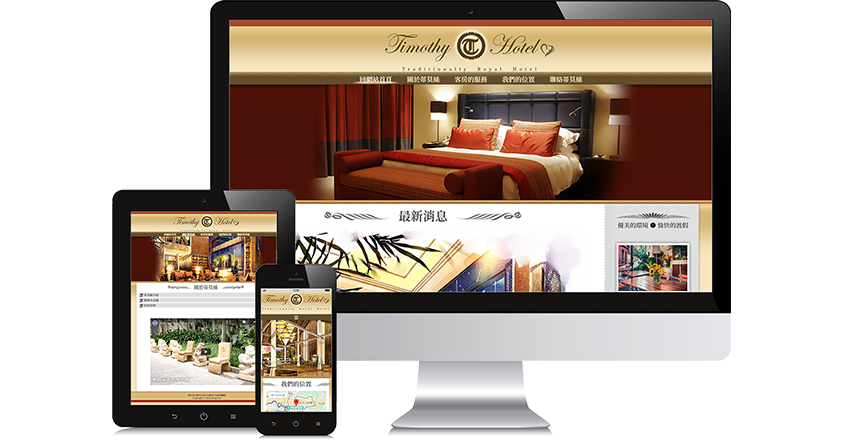
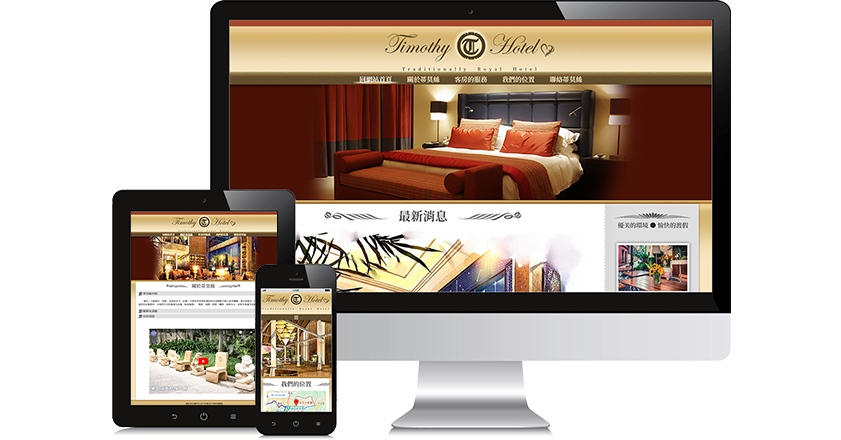
createSelfWebPicture
新增自傳網頁rwd圖示

Changed region(s): [[0.1546, 0.4727, 0.3401, 0.9455]]

diff --git a/index.html b/index.html
@@ -209,12 +209,12 @@
                                 aria-labelledby="front-tab">
                                 <!-- 網頁3 -->
                                 <div class="row my-3">
-                                    <div id="page3-content" class="col-lg-6 order-2">
+                                    <div id="page3-content" class="col-lg-7 order-2">
                                         <div class="card">
-                                            <h5 class="card-header">個人網站</h5>
+                                            <h5 class="card-header text-light">個人網站</h5>
                                             <div class="card-body">
                                                 <ul class="card-text">
-                                                    
+
                                                     <li>
                                                         Visual Studio Code 編譯
                                                     </li>
@@ -238,24 +238,23 @@
                                                     </li>
                                                 </ul>
 
-                                                <a 
-                                                    class="btn btn-light">此網站</a>
+                                                <a class="btn btn-light not-allow">此網站</a>
                                             </div>
                                         </div>
                                     </div>
-                                    <div id="page3-img" class="col-lg-6 order-1 my-2">
+                                    <div id="page3-img" class="col-lg-5 order-1 my-2">
                                         <picture>
-                                            <source class="lazyload" srcset="images/webp/timothy_rwd.webp"
-                                                type="image/webp">
-                                            <img class="lazyload" data-src="images/timothy_rwd.png" alt=""></picture>
+                                            <source srcset="images/webp/self_rwd.webp" type="image/webp">
+                                            <img class="lazyload" data-src="images/oxipng/self_rwd.png" alt="">
+                                        </picture>
                                     </div>
                                 </div>
                                 <hr />
                                 <!-- 網頁2 -->
                                 <div class="row my-3">
-                                    <div class="col-lg-6">
+                                    <div class="col-lg-7">
                                         <div class="card">
-                                            <h5 class="card-header">Timothy Hotel 蒂莫絲旅館</h5>
+                                            <h5 class="card-header text-light">Timothy Hotel 蒂莫絲旅館</h5>
                                             <div class="card-body">
                                                 <ul class="card-text">
                                                     <li>
@@ -283,19 +282,19 @@
                                             </div>
                                         </div>
                                     </div>
-                                    <div class="col-lg-6 my-2">
+                                    <div class="col-lg-5 my-2">
                                         <picture>
-                                            <source class="lazyload" srcset="images/webp/timothy_rwd.webp"
-                                                type="image/webp">
-                                            <img class="lazyload" data-src="images/timothy_rwd.png" alt=""></picture>
+                                            <source srcset="images/webp/timothy_rwd.webp" type="image/webp">
+                                            <img class="lazyload" data-src="images/oxipng/timothy_rwd.png" alt="">
+                                        </picture>
                                     </div>
                                 </div>
                                 <hr />
                                 <!-- 網頁1 -->
                                 <div class="row my-3">
-                                    <div id="page1-content" class="col-lg-6 order-2">
+                                    <div id="page1-content" class="col-lg-7 order-2">
                                         <div class="card">
-                                            <h5 class="card-header">國立東華大學弓道社 社團網頁</h5>
+                                            <h5 class="card-header text-light">國立東華大學弓道社 社團網頁</h5>
                                             <div class="card-body">
                                                 <ul class="card-text">
 
@@ -324,11 +323,11 @@
                                             </div>
                                         </div>
                                     </div>
-                                    <div id="page1-img" class="col-lg-6 order-1 my-2">
+                                    <div id="page1-img" class="col-lg-5 order-1 my-2">
                                         <picture>
-                                            <source class="lazyload" srcset="images/webp/kyudo_rwd.webp"
-                                                type="image/webp">
-                                            <img class=" lazyload" data-src="images/kyudo_rwd.png" alt=""></picture>
+                                            <source srcset="images/webp/kyudo_rwd.webp" type="image/webp">
+                                            <img class=" lazyload" data-src="images/oxipng/kyudo_rwd.png" alt="">
+                                        </picture>
                                     </div>
                                 </div>
 
@@ -336,13 +335,13 @@
 
                             <div class="tab-pane fade" id="backwork" role="tabpanel" aria-labelledby="backwork-tab">
                                 <div class="row my-3">
-                                    <div class="col-lg-6">
+                                    <div class="col-lg-7">
                                         <h5>Java 8 國際證照 OCAJP</h5>
                                         <p><a href="https://drive.google.com/open?id=1nZs2C0dUk2zXGWmJk3IDAq4ineWewz7N"
                                                 target="_blank">OCAJP崔永昀.pdf</a>
                                         </p>
                                     </div>
-                                    <div class="col-lg-6">
+                                    <div class="col-lg-5">
                                         <picture>
                                             <source srcset="images/webp/ocajp.webp" type="image/webp">
                                             <img class=" lazyload" data-src="images/ocajp.jpg"></picture>
@@ -350,7 +349,42 @@
                                 </div>
                                 <hr />
                                 <div class="row my-3">
-                                    <div class="col-lg-6">
+                                    <div id="program1-content" class="col-lg-7 order-2">
+                                        <div class="card">
+                                            <h5 class="card-header text-light">民宿管理程式</h5>
+                                            <div class="card-body">
+                                                <ul class="card-text">
+
+                                                    <li>
+                                                        NetBeans 編譯
+                                                    </li>
+                                                    <li>
+                                                        NetBeans IDE 建構 GUI
+                                                    </li>
+                                                    <li>
+                                                        封裝、多型基本設計
+                                                    </li>
+                                                    <li>
+
+                                                    </li>
+                                                    <li>
+
+                                                    </li>
+                                                    <li>
+
+                                                    </li>
+                                                    <li>
+
+                                                    </li>
+                                                </ul>
+
+                                                <a href="https://drive.google.com/drive/folders/1eDWpcEPrxxfojs0kRFS3hPII4j8Dr0zE?usp=sharing"
+                                                    class="btn btn-primary"><i
+                                                        class="fab fa-google-drive"></i>&nbsp;前往下載</a>
+                                            </div>
+                                        </div>
+                                    </div>
+                                    <div id="program1-img" class="col-lg-5 order-1">
                                         <!-- boostrap carousel -->
                                         <div id="carouselExampleCaptions" class="carousel slide" data-ride="carousel">
                                             <ol class="carousel-indicators">
@@ -541,50 +575,14 @@
                                             </a>
                                         </div>
                                     </div>
-                                    <div class="col-lg-6">
-                                        <div class="row my-3">
-                                            <div id="page3-content" class="col-lg-6">
-                                                <div class="card">
-                                                    <h5 class="card-header">民宿管理程式</h5>
-                                                    <div class="card-body">
-                                                        <ul class="card-text">
-                                                            
-                                                            <li>
-                                                                NetBeans 編譯
-                                                            </li>
-                                                            <li>
-                                                                
-                                                            </li>
-                                                            <li>
-                                                                
-                                                            </li>
-                                                            <li>
-                                                                
-                                                            </li>
-                                                            <li>
-                                                                
-                                                            </li>
-                                                            <li>
-                                                                
-                                                            </li>
-                                                            <li>
-                                                                
-                                                            </li>
-                                                        </ul>
-        
-                                                        <a 
-                                                            class="btn btn-light"></a>
-                                                    </div>
-                                                </div>
-                                            </div>
-                                    </div>
                                 </div>
                             </div>
                         </div>
                     </div>
                 </div>
-            </section>
         </div>
+        </section>
+    </div>
 
 
     </div>
@@ -734,30 +732,32 @@
             if ($(window).width() < 992 && $('input').is(':hidden')) {
                 $('#header-name').removeClass('order-4');
                 $('#header-items, #header-name').removeClass('fade-third');
-                $('#page1-content, #page3-content').removeClass('order-2');
-                $('#page1-img, #page3-content').removeClass('order-1');
+                $('#page1-content, #page3-content , #program1-content').removeClass('order-2');
+                $('#page1-img, #page3-img , #program1-img').removeClass('order-1');
                 $('#header-name').addClass('fade-first');
             } else {
                 $('#myself-about').fadeIn();
-                //
-                $('nav').hide();
-                setTimeout(function () {
-                    var startScrollY = $('#works-head').offset().top;
-                    window.addEventListener('scroll', function () {
-                        var st = this.scrollY;
-                        if (st > startScrollY) {
-                            $('nav').slideDown();
-                        } else {
-                            $('nav').slideUp();
-                        }
-                    });
-                }, 1900);
+
+                //監聽nav
+                {
+                    $('nav').hide();
+                    setTimeout(function () {
+                        var startScrollY = $('#works-head').offset().top;
+                        window.addEventListener('scroll', function () {
+                            var st = this.scrollY;
+                            if (st > startScrollY) {
+                                $('nav').slideDown();
+                            } else {
+                                $('nav').slideUp();
+                            }
+                        });
+                    }, 1900);
+                }
             }
         });
 
         //錨點捲動
         {
-
             $('#top').click(function () {
                 $('html, body').animate({ scrollTop: 0 }, 500);
             });

diff --git a/css/layout.css b/css/layout.css
@@ -127,6 +127,10 @@ img {
     color: rgb(0, 123, 255);
 }
 
+.card-header{
+    background-color: rgba(0, 0, 50, 0.8);
+}
+
 /* education */
 
 #education .time, .time-now {
@@ -258,6 +262,10 @@ footer {
 
 .pointer {
     cursor: pointer;
+}
+
+.not-allow{
+    cursor: not-allowed!important;
 }
 
 #loading {
